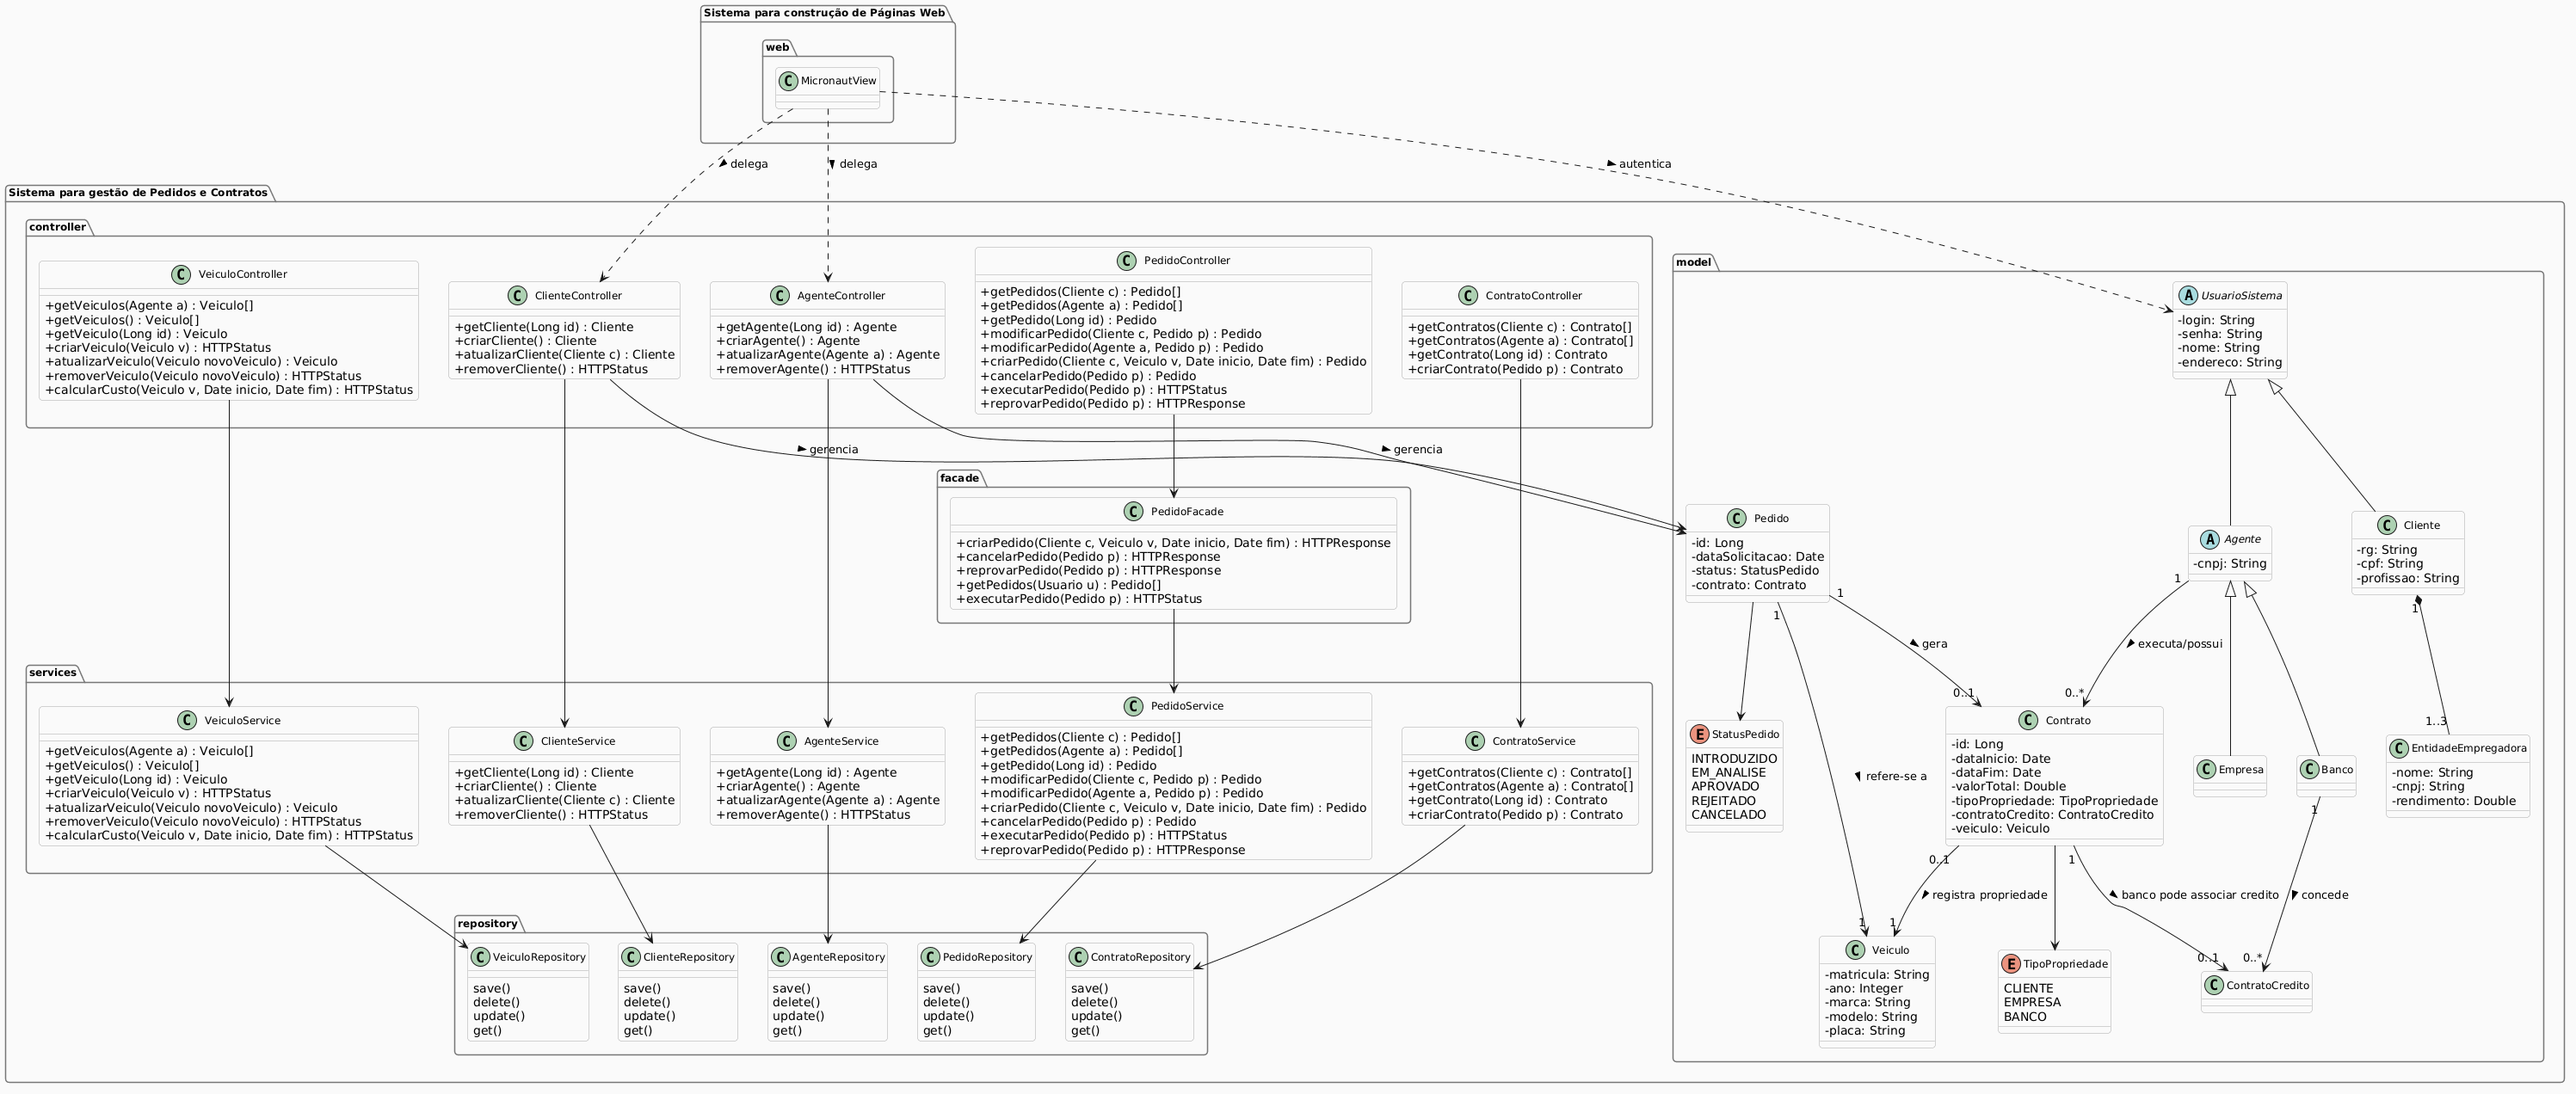
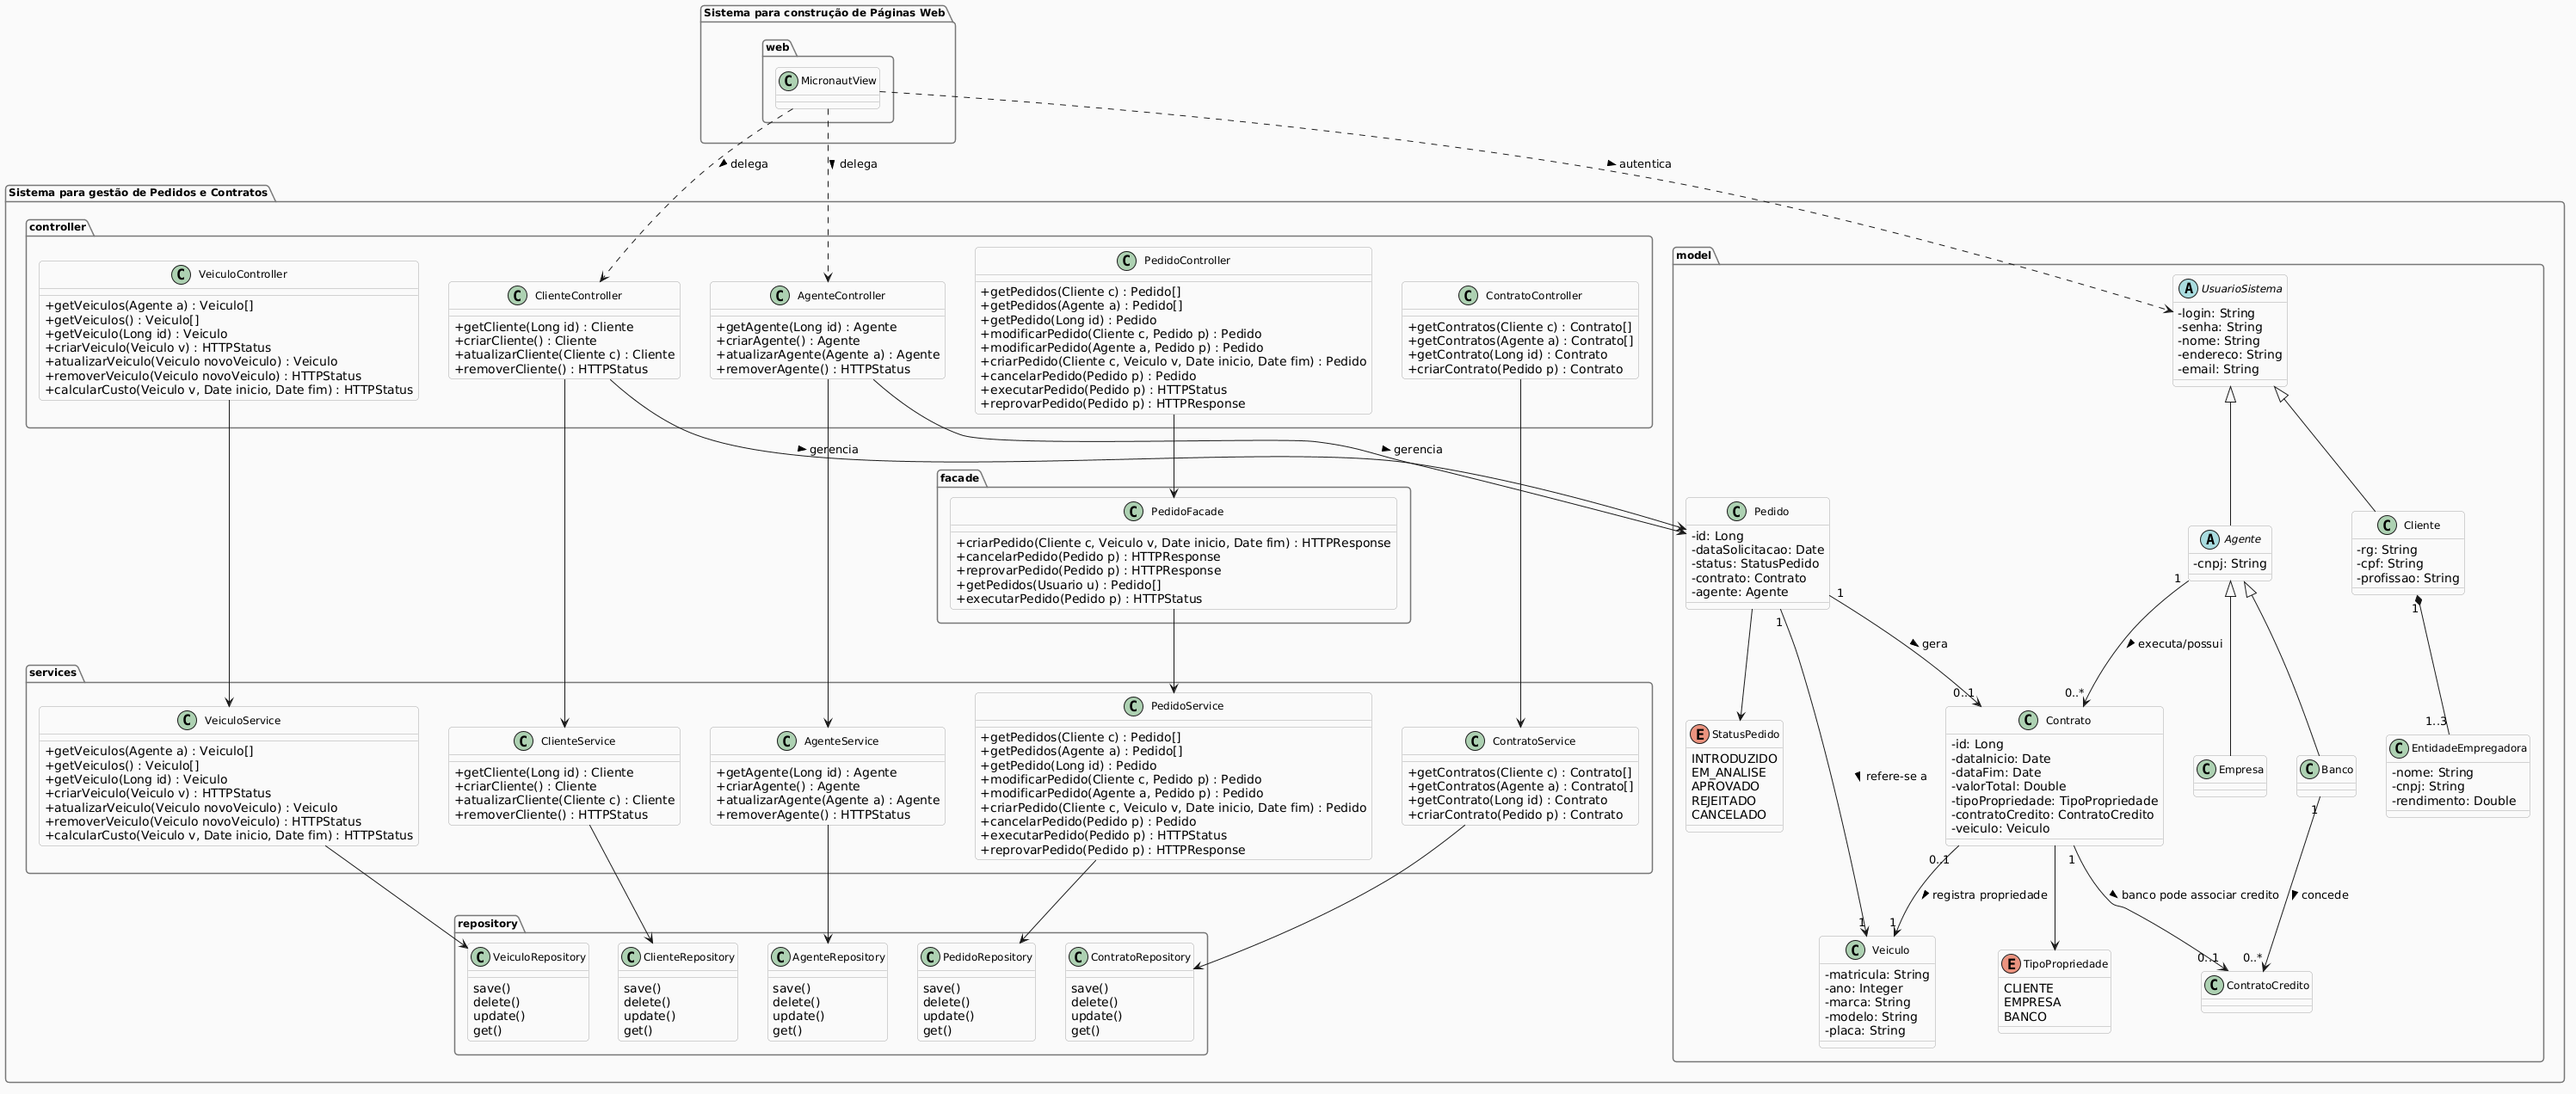
fix: Correções no PedidoRepository

Changed region(s): [[0.8387, 0.2453, 0.9008, 0.3679], [0.6523, 0.4599, 0.7144, 0.5519], [0.6523, 0.2146, 0.6834, 0.2453]]

diff --git a/backend/src/main/java/com/puc/aluguelcarros/service/PedidoService.java b/backend/src/main/java/com/puc/aluguelcarros/service/PedidoService.java
@@ -30,7 +30,7 @@ public class PedidoService {
     }
 
     public List<Pedido> getPedidosByAgente(Agente agente){
-        List<Pedido> pedidos = finalRepository.findByContratoAgente(agente);
+        List<Pedido> pedidos = finalRepository.findByAgente(agente);
         if(pedidos.isEmpty()){
             throw new PersistenceException("Nenhum pedido encontrado para o agente: " + agente.getNome());
         }
@@ -151,7 +151,7 @@ public class PedidoService {
     } 
 
     public boolean verificarDisponibilidade(Veiculo veiculo, Date dataInicio, Date dataFim) {
-        List<Pedido> pedidos = finalRepository.findByVeiculoId(veiculo);
+        List<Pedido> pedidos = finalRepository.findByVeiculo(veiculo);
         for (Pedido pedido : pedidos) {
             if (pedido.getStatus() == StatusPedido.APPROVED || pedido.getStatus() == StatusPedido.UNDER_REVIEW) {
                 if (dataInicio.before(pedido.getDataFimDesejada()) && dataFim.after(pedido.getDataInicioDesejada())) {

diff --git a/backend/src/main/java/com/puc/aluguelcarros/repository/PedidoRepository.java b/backend/src/main/java/com/puc/aluguelcarros/repository/PedidoRepository.java
@@ -13,7 +13,7 @@ public interface PedidoRepository extends CrudRepository<Pedido, Long>{
     Optional<Pedido> findById(Long id);
     Optional<Pedido> findByIdAndCliente(Long id, Cliente cliente);
     Optional<Pedido> findByIdAndAgente(Long id, Agente agente);
-    List<Pedido> findByVeiculoId(Veiculo veiculo);
+    List<Pedido> findByVeiculo(Veiculo veiculo);
     List<Pedido> findByCliente(Cliente cliente);
-    List<Pedido> findByContratoAgente(Agente agente);
+    List<Pedido> findByAgente(Agente agente);
 }

diff --git a/backend/src/main/java/com/puc/aluguelcarros/model/Pedido.java b/backend/src/main/java/com/puc/aluguelcarros/model/Pedido.java
@@ -25,6 +25,9 @@ public class Pedido{
     @JoinColumn(name = "cliente_id")
     private Cliente cliente;
     @ManyToOne
+    @JoinColumn(name = "agente_id")
+    private Agente agente;
+    @ManyToOne
     @JoinColumn(name = "veiculo_id")
     private Veiculo veiculo;
 }

diff --git a/backend/src/main/java/com/puc/aluguelcarros/model/UsuarioSistema.java b/backend/src/main/java/com/puc/aluguelcarros/model/UsuarioSistema.java
@@ -17,4 +17,6 @@ public class UsuarioSistema {
     private String senha;
     private String nome;
     private String endereco;
+    @Column(unique = true)
+    private String email;
 }
